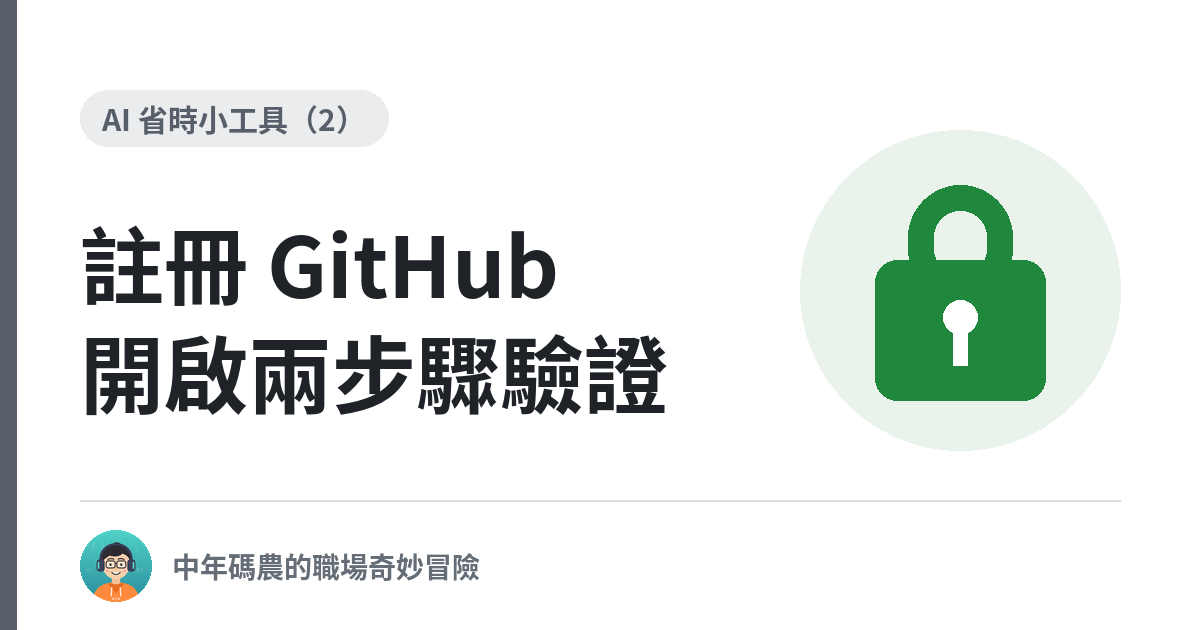
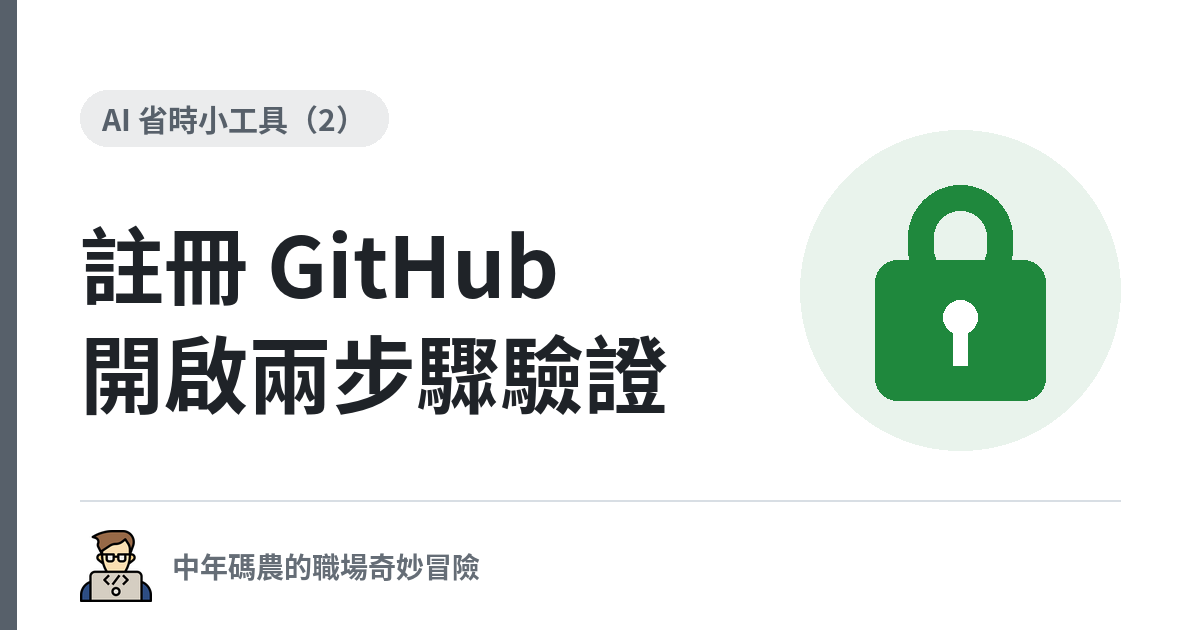
文章封面頭像換回電腦人像
三篇 AI 省時小工具封面左下角的頭像原本是卡通開發者，換成
assets/img/avatar.png（一個人使用電腦）。scripts/cover-avatar.png
同步換掉，make_cover.py 改為依透明底直接疊上、不再裁成圓形，
之後新產生的封面也會用這張。

Claude-Session: https://claude.ai/code/session_01WPuEZs9wrPxg8REZuTjnUX

Changed region(s): [[0.0617, 0.8444, 0.1233, 0.9651]]

diff --git a/scripts/make_cover.py b/scripts/make_cover.py
@@ -127,10 +127,9 @@ def main():
 
     # 底部：分隔線＋頭像＋站名
     d.line([80, 500, W - 80, 500], fill=LINE, width=2)
-    av = Image.open(AVATAR).convert("RGBA").resize((72, 72), Image.LANCZOS)
-    mask = Image.new("L", (72, 72), 0)
-    ImageDraw.Draw(mask).ellipse([0, 0, 71, 71], fill=255)
-    img.paste(av, (80, 530), mask)
+    av = Image.open(AVATAR).convert("RGBA")
+    av = av.crop(av.getbbox()).resize((72, 72), Image.LANCZOS)  # 頭像為透明底，直接疊上，不裁圓
+    img.paste(av, (80, 530), av)
     d.text((172, 566), SITE, font=f(28), fill=MUTED, anchor="lm")
 
     img.save(a.out, optimize=True)
